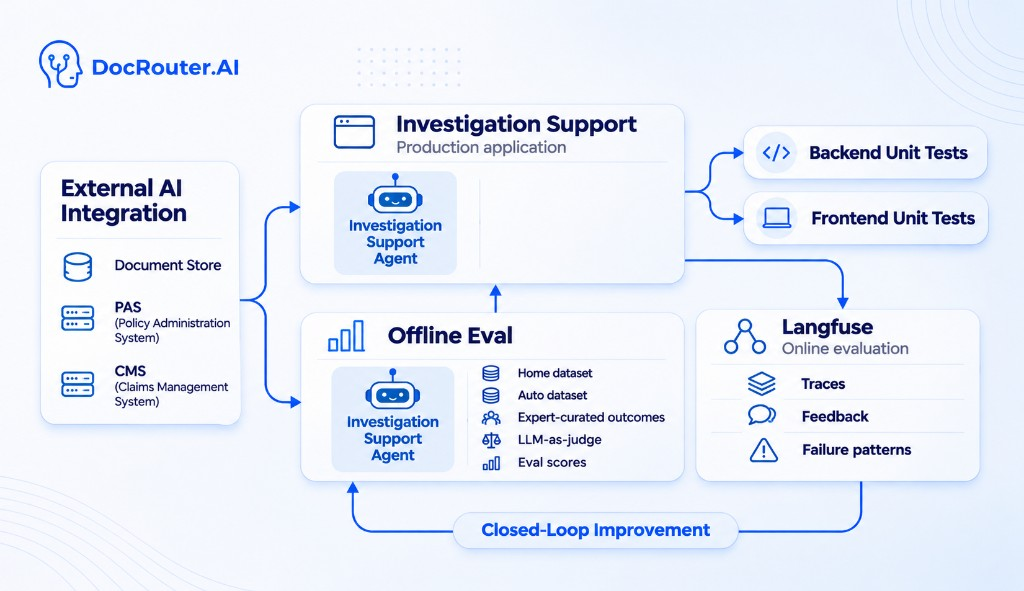
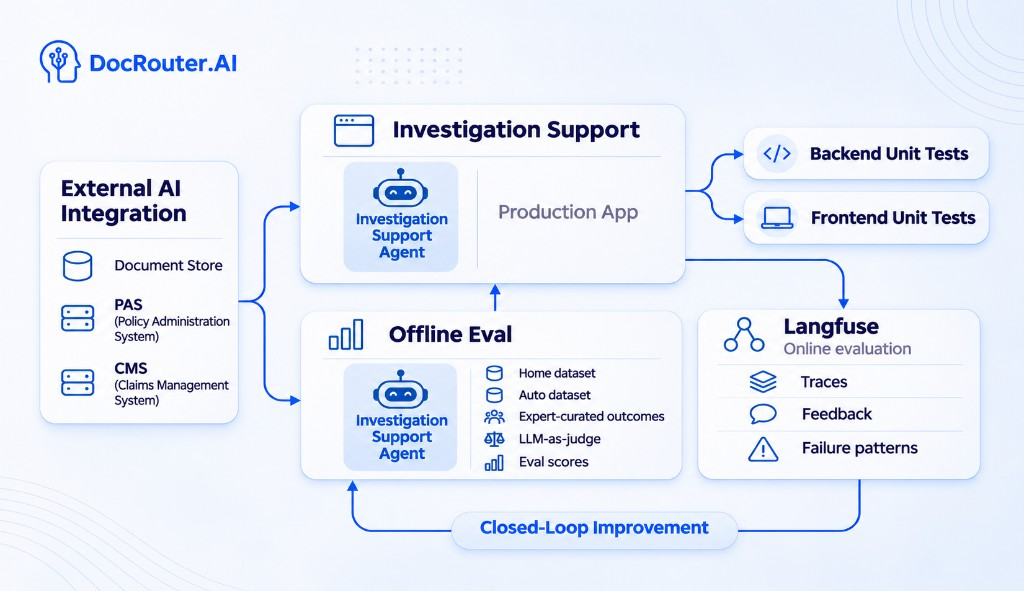
Place the splash in the post and refresh the confidence-loop diagram.

diff --git a/_posts/2026-11-14-investigation-support-agent-for-insurance-claims.md b/_posts/2026-11-14-investigation-support-agent-for-insurance-claims.md
@@ -14,6 +14,8 @@ We architected an **Investigation Support agent** so that legwork happens automa
 
 While the agent was deployed at a mid-size property-and-casualty carrier, this post stays at the product-pattern level and describes implementation best practices.
 
+![From first notice of loss and policy forms to an adjuster-ready package](/assets/images/investigation-support-agent-splash.jpg)
+
 ## The gap after FNOL
 
 FNOL is built for speed and empathy on the intake side. Investigation is built for accuracy, traceability, and consistency. The handoff between them is where teams lose time:
